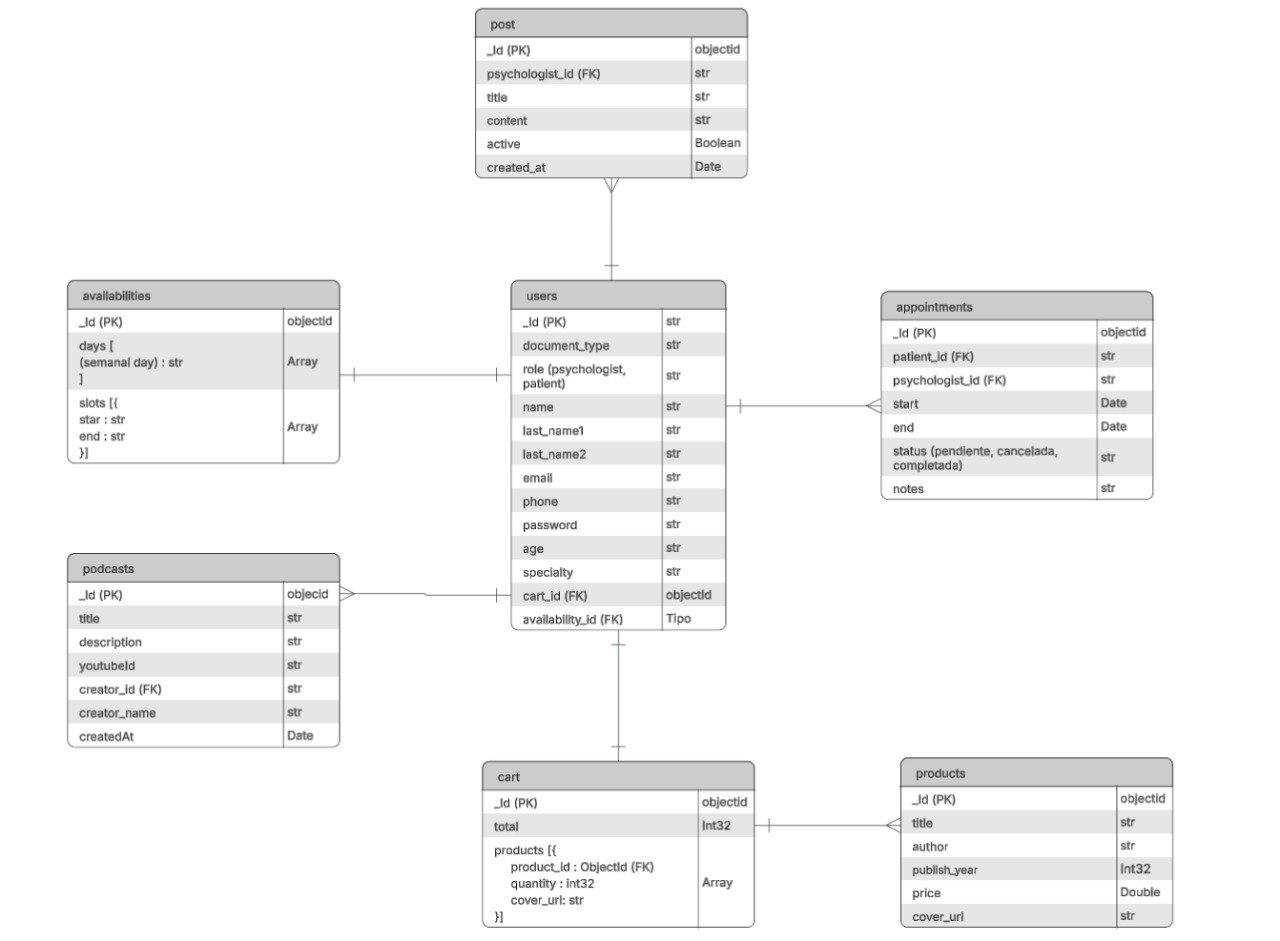
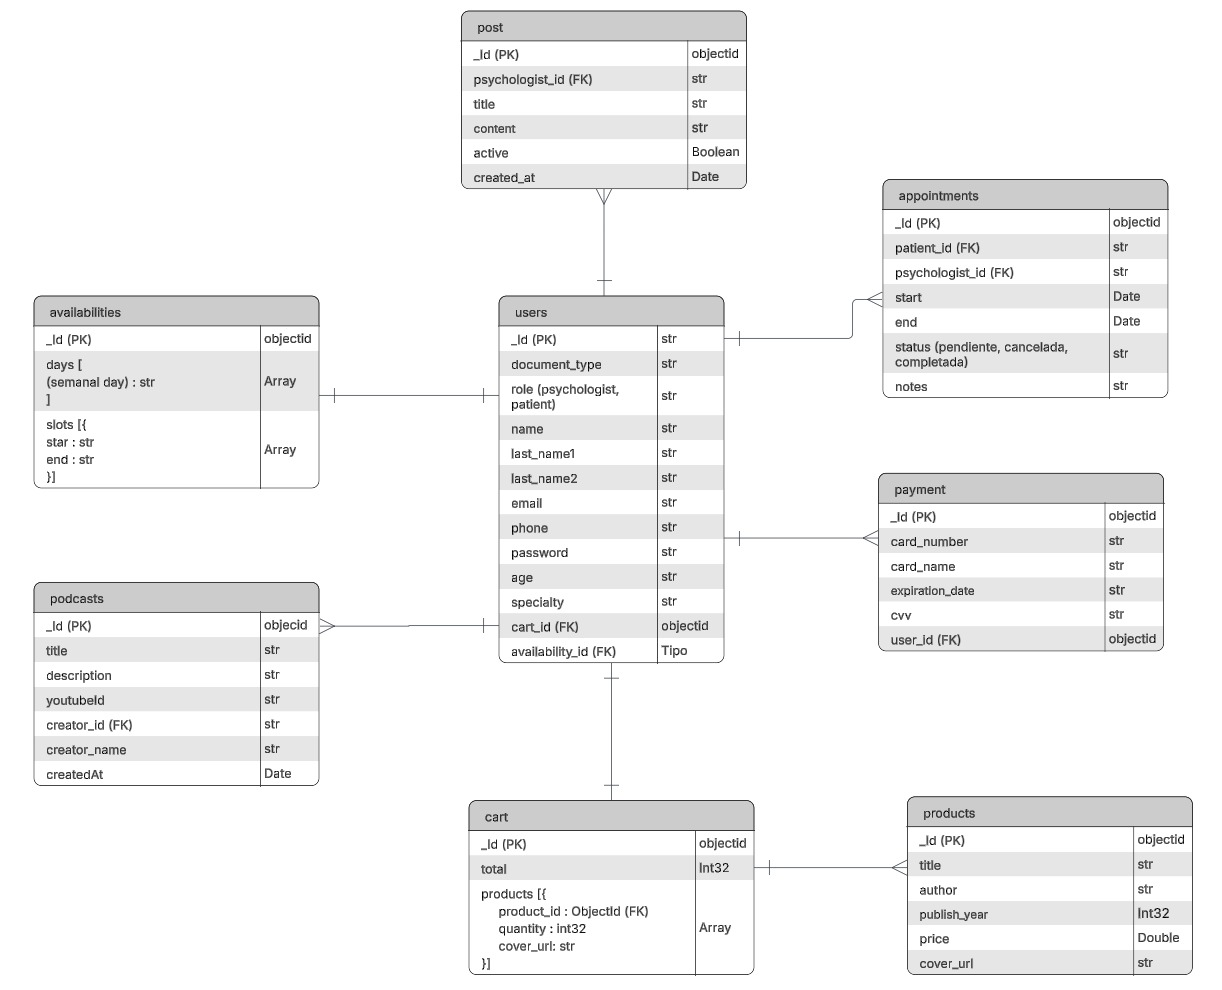
model

diff --git a/src/handlers/error-handler.js b/src/handlers/error-handler.js
@@ -52,6 +52,12 @@ function handleError(res, err) {
     "FIELDS NOT UPDATABLE": { msg: "Algunos campos no se pueden actualizar", status: STATUS.BAD_REQUEST },
     "PASSWORD_MISMATCH": { msg: "Las contraseñas no coinciden", status: STATUS.BAD_REQUEST },
 
+    // Payment errors
+    "INVALID CARD NUMBER": { msg: "Número de tarjeta inválido", status: STATUS.BAD_REQUEST },
+    "INVALID CARD NAME": { msg: "Nombre de tarjeta inválido", status: STATUS.BAD_REQUEST },
+    "INVALID EXPIRATION DATE": { msg: "Fecha de expiración inválida", status: STATUS.BAD_REQUEST },
+    "INVALID CVV": { msg: "CVV inválido", status: STATUS.BAD_REQUEST },
+
     // Not found
     "USER NOT FOUND": { msg: "Usuario no encontrado", status: STATUS.NOT_FOUND },
     "POST NOT FOUND": { msg: "Post no encontrado", status: STATUS.NOT_FOUND },
